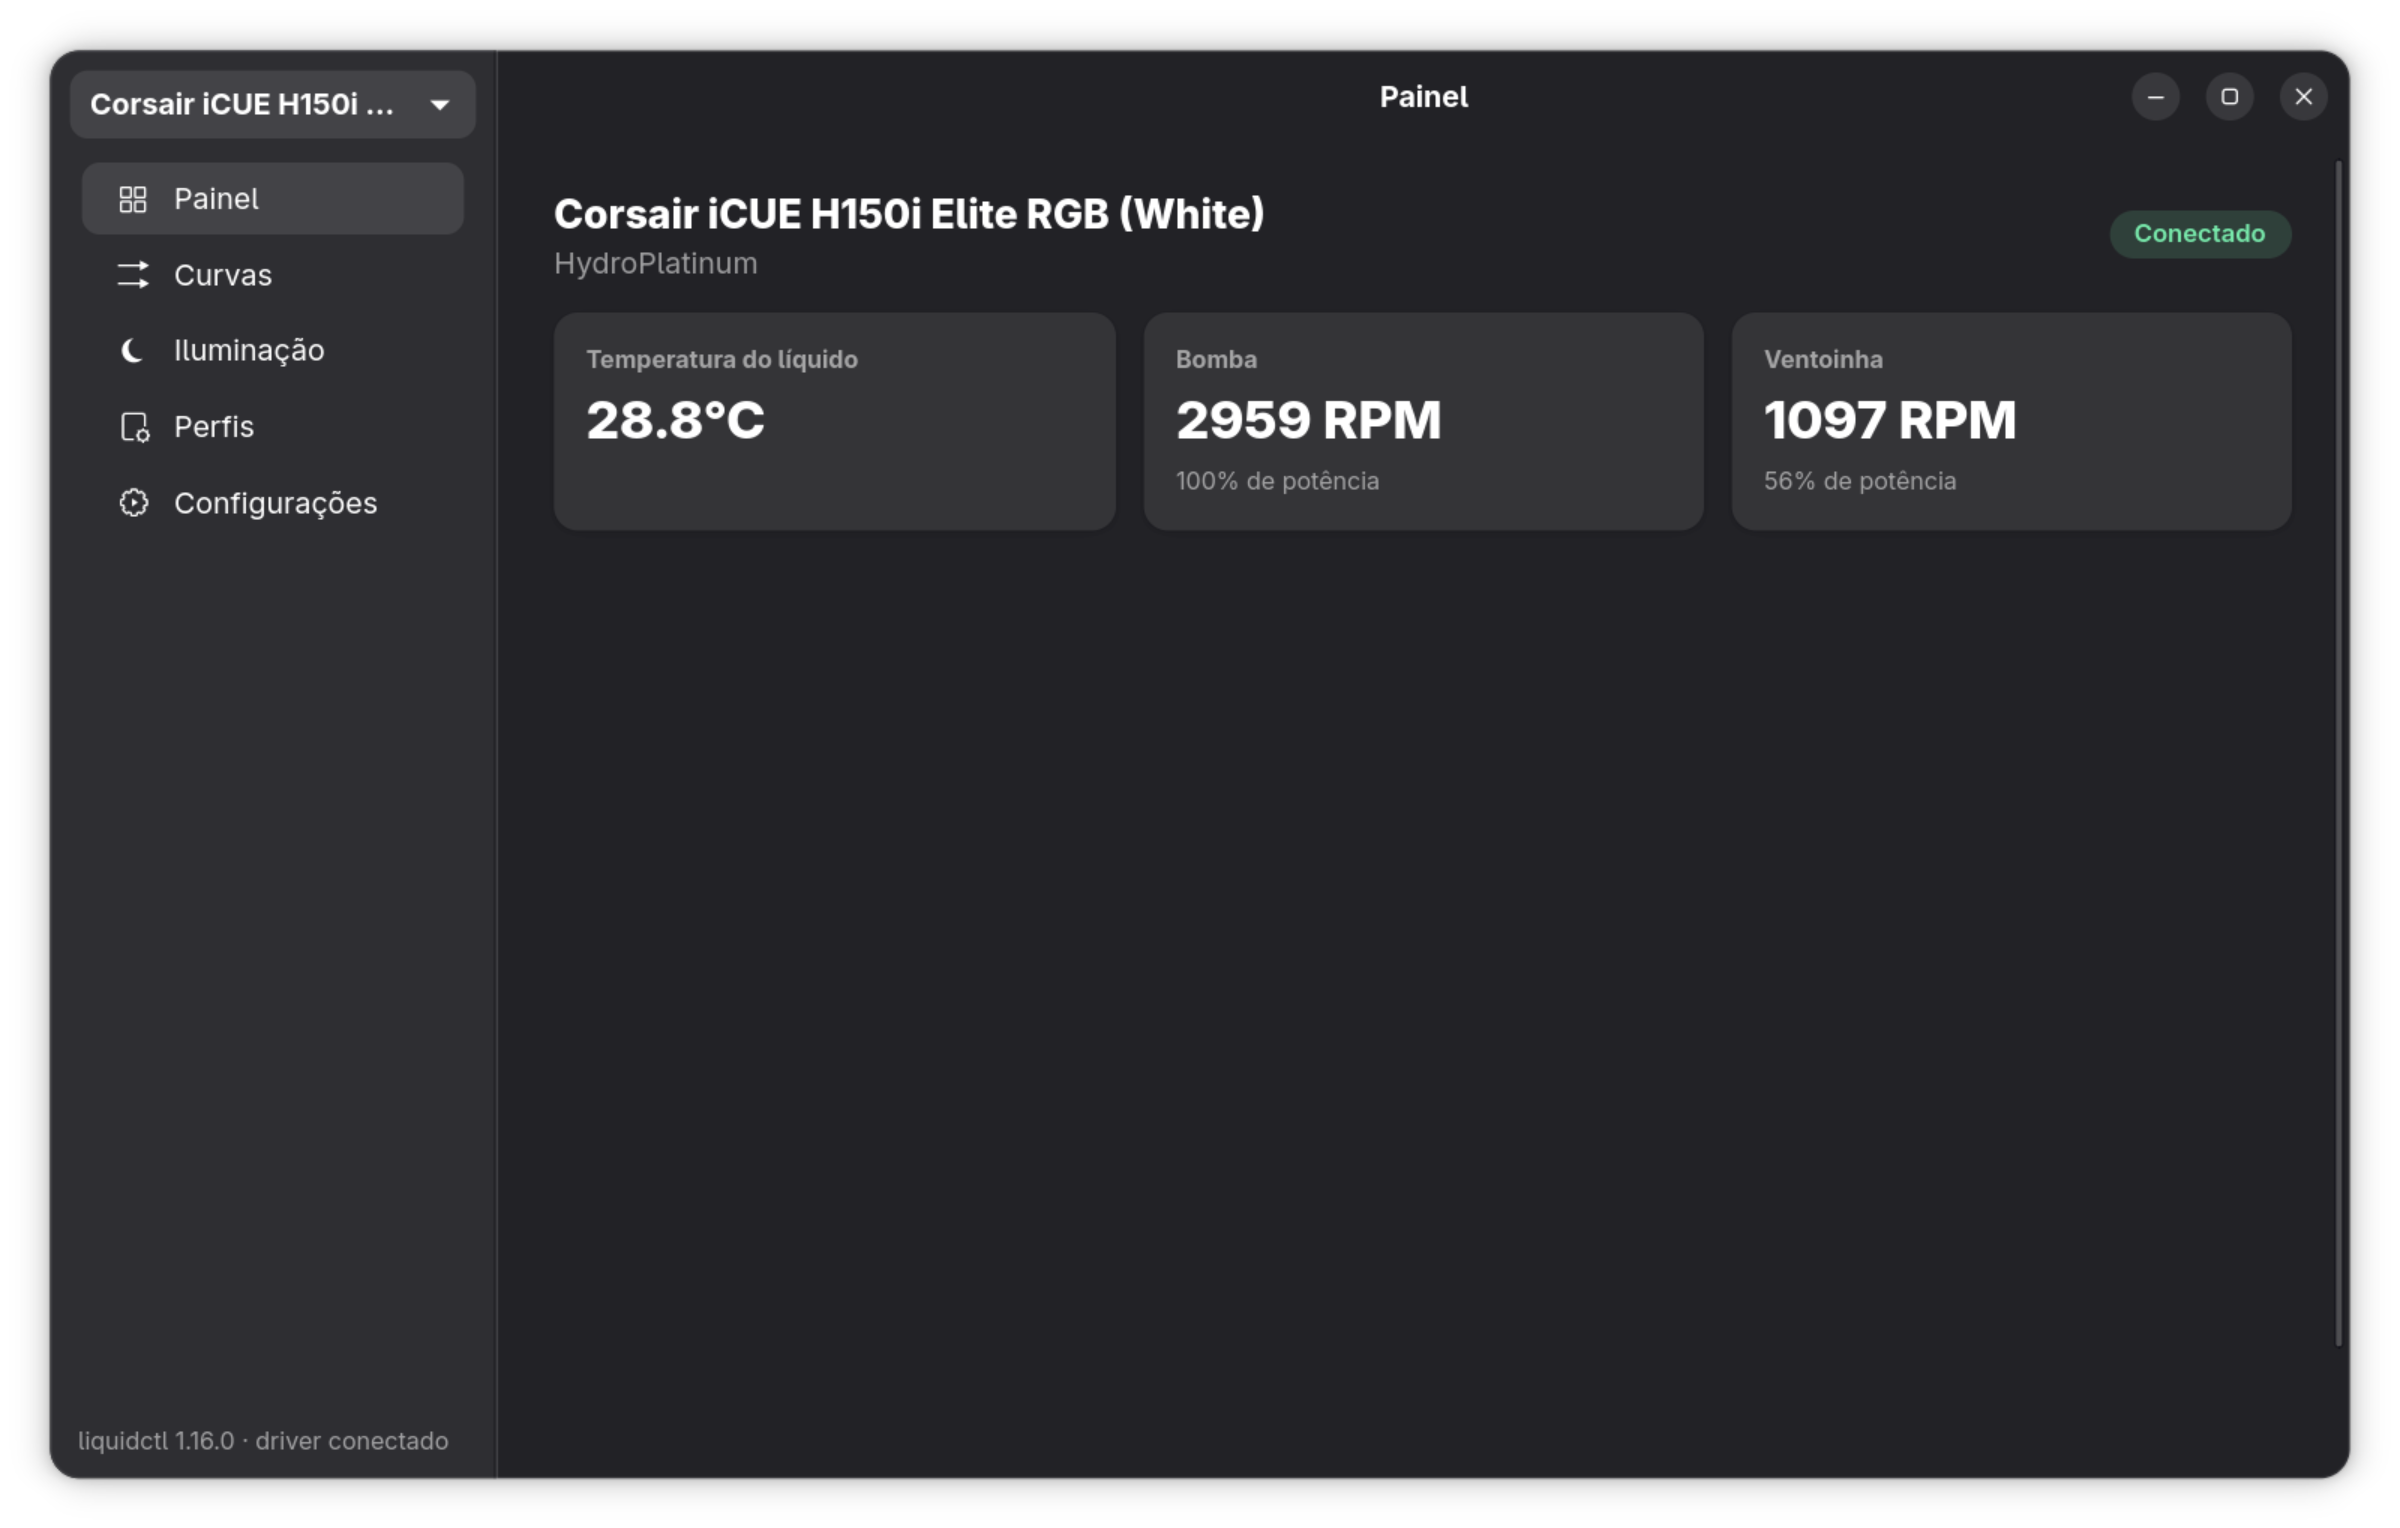
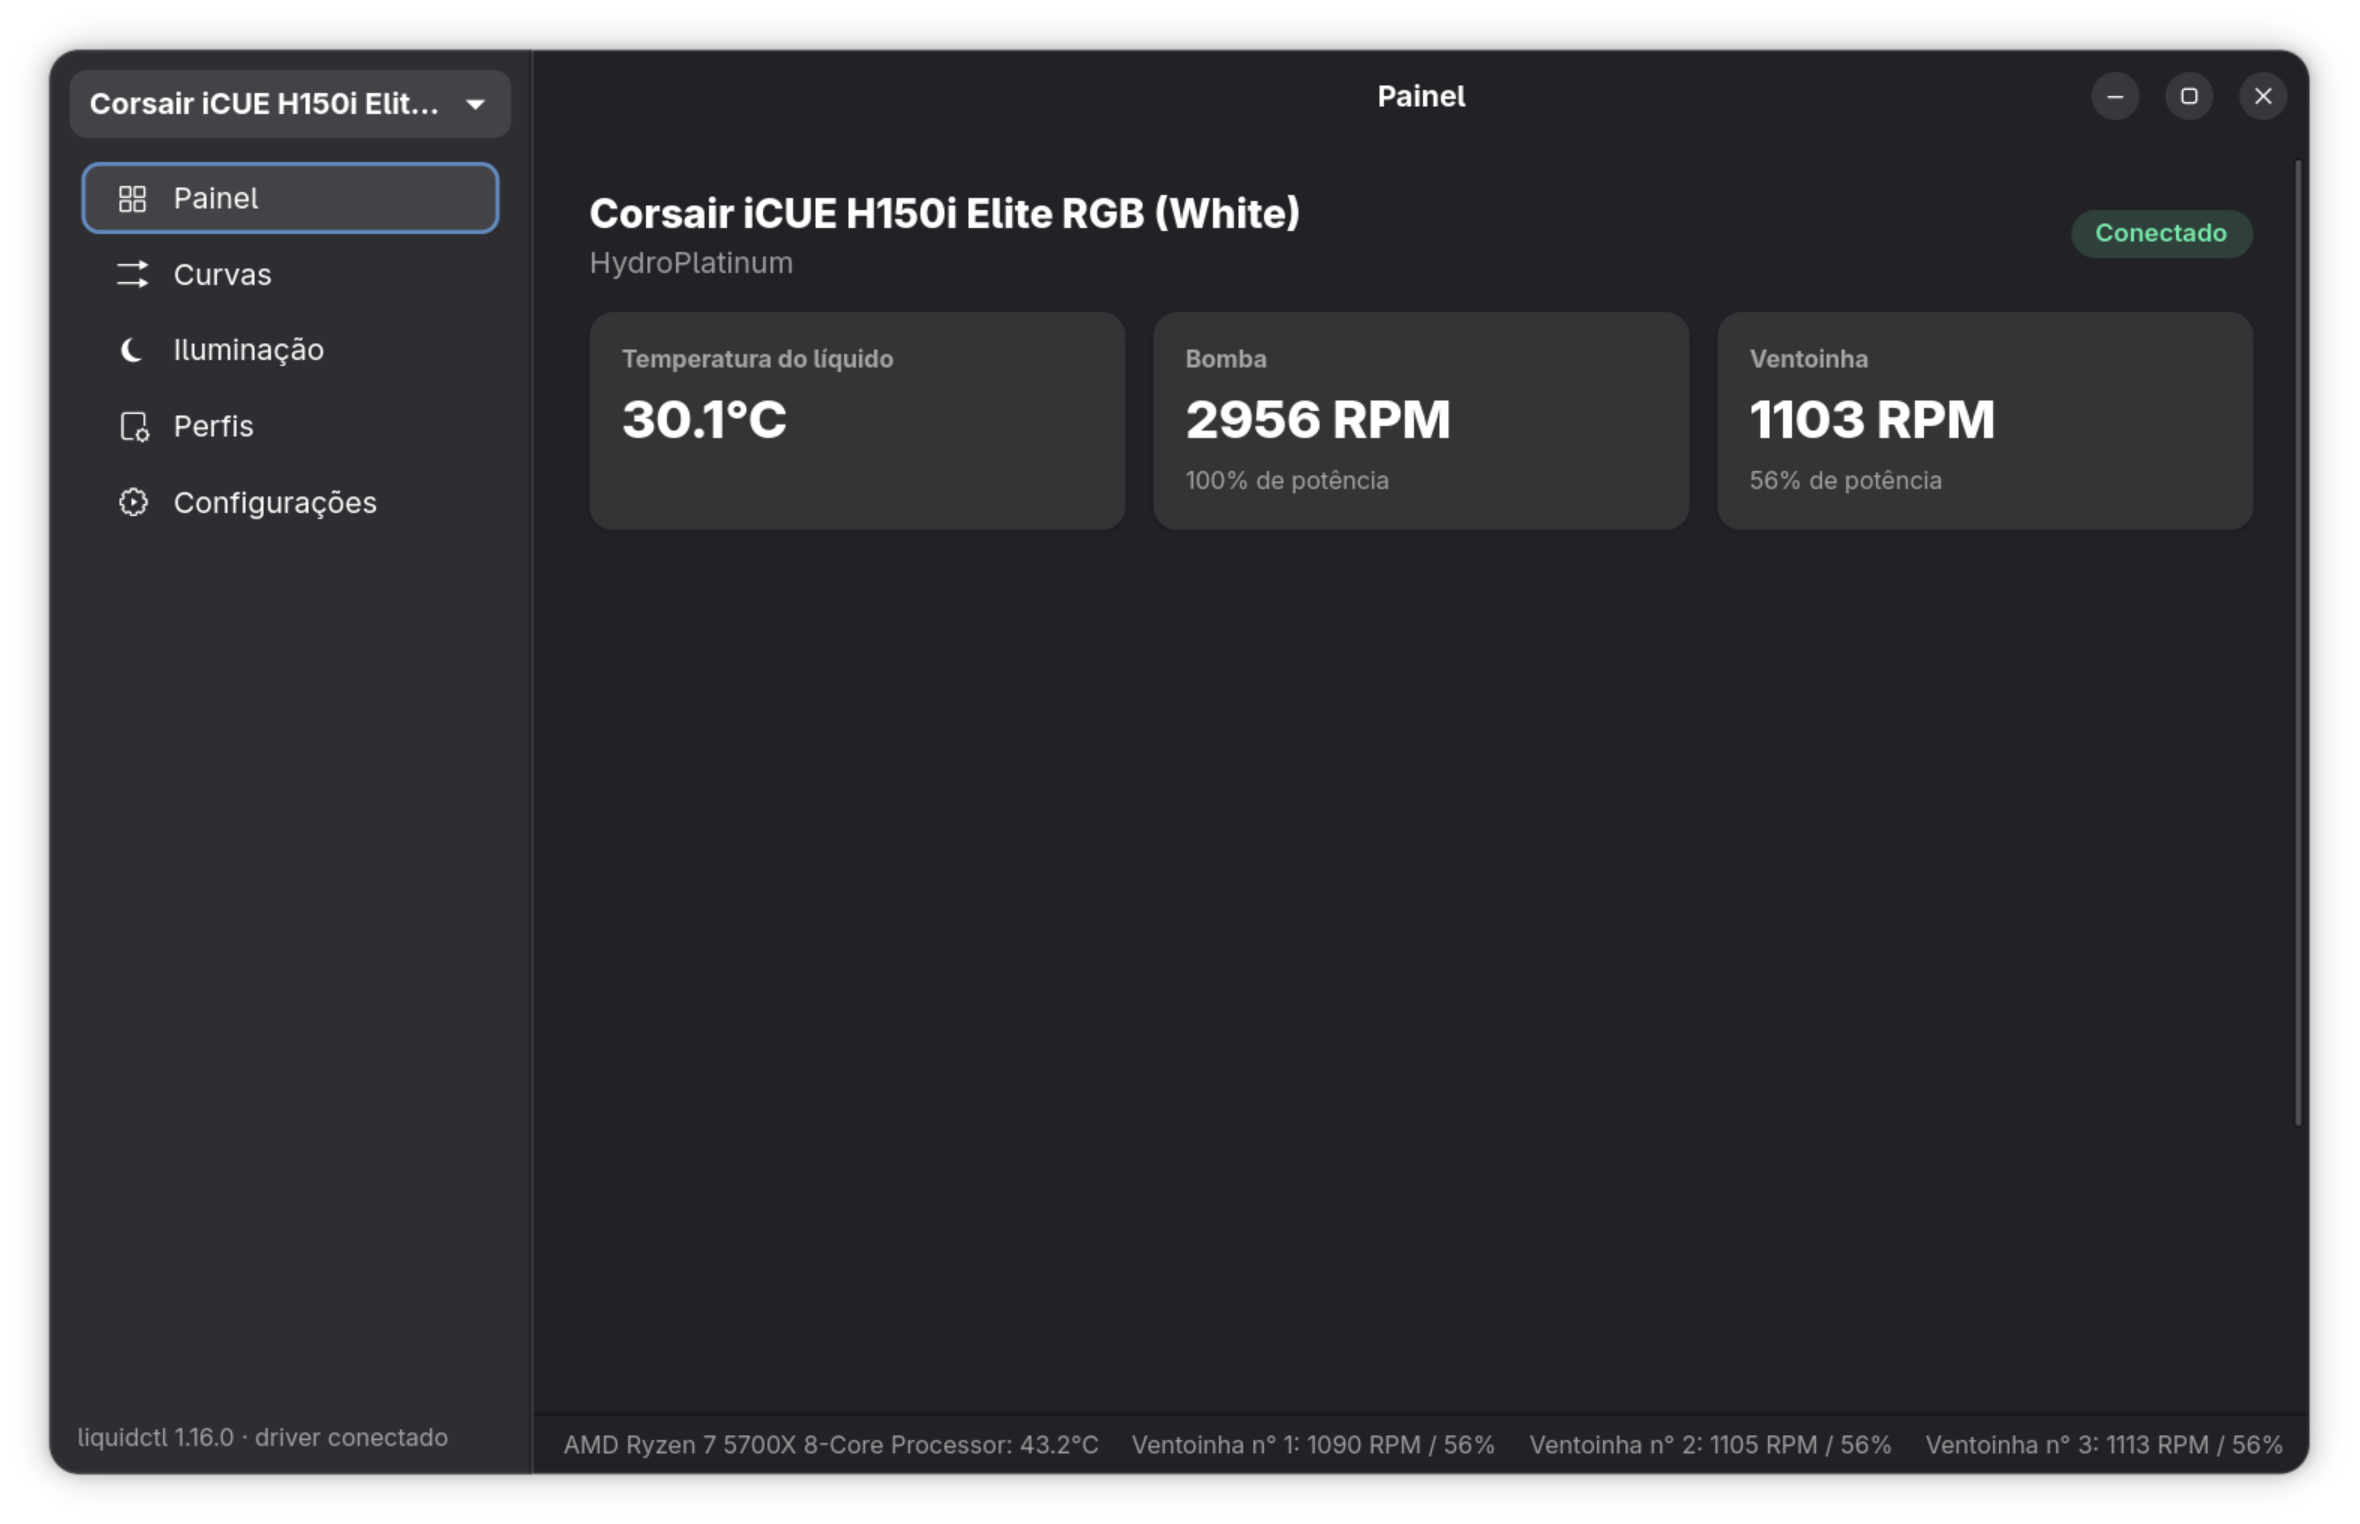
feat: CPU/fan dashboard monitor and faster fan validation
- Add a discreet bottom bar showing host CPU temperature and per-fan
  RPM/duty, pinned outside the scrollable content
- Fan duty validation now settles fast right after applying a curve,
  then falls back to the slower configured interval
- Fix sidebar collapsing to an unrecoverable sliver when dragged to
  its minimum width
- Update README and pt_BR translations

diff --git a/liquidctl_gui/ui/page_dashboard.py b/liquidctl_gui/ui/page_dashboard.py
@@ -1,15 +1,20 @@
 from __future__ import annotations
 
+import re
+
 import gi
 
 gi.require_version("Gtk", "4.0")
 gi.require_version("Adw", "1")
 
-from gi.repository import Adw, GLib, Gtk  # noqa: E402
+from gi.repository import Adw, GLib, Gtk, Pango  # noqa: E402
 
+from ..backend import system_sensors  # noqa: E402
 from ..i18n import install  # noqa: E402
 
 _ = install()
+
+_FAN_KEY_RE = re.compile(r"fan\s*(\d+)", re.IGNORECASE)
 
 
 def _card(title: str) -> tuple[Gtk.Box, Gtk.Label, Gtk.Label]:
@@ -62,6 +67,22 @@ class DashboardPage(Gtk.Box):
         self.append(self.empty_label)
         self.empty_label.set_visible(False)
 
+        # Deliberately NOT appended into this page: it lives in the window's
+        # Adw.ToolbarView bottom bar instead (see window.py), which stays pinned to
+        # the window edge outside the scrollable content - unlike a child of this
+        # page, it can never be pushed off-screen or require scrolling to reach.
+        self.system_box = Adw.WrapBox(child_spacing=16, line_spacing=2,
+                                       halign=Gtk.Align.END, margin_top=6, margin_bottom=6,
+                                       margin_start=12, margin_end=12)
+        self.cpu_label = Gtk.Label(halign=Gtk.Align.END, css_classes=["dim-label", "caption"],
+                                    ellipsize=Pango.EllipsizeMode.END, max_width_chars=40)
+        self.system_box.append(self.cpu_label)
+
+        self._cpu_name = system_sensors.get_cpu_name()
+        self._fan_detail_labels: list[Gtk.Label] = []
+        self._update_cpu()
+        GLib.timeout_add_seconds(2, self._update_cpu)
+
     def on_device_changed(self) -> None:
         if self._timeout_id is not None:
             GLib.source_remove(self._timeout_id)
@@ -106,18 +127,57 @@ class DashboardPage(Gtk.Box):
 
     def _on_status(self, status) -> None:
         unit = self.window.app.config.get("temp_unit", "C")
+        fans: dict[int, dict[str, float]] = {}
+
         for key, value, raw_unit in status:
             lower_key = key.lower()
+            match = _FAN_KEY_RE.search(lower_key)
             if "liquid temperature" in lower_key:
                 self.liquid_temp_value.set_label(self._format_temp(value, unit))
             elif lower_key.startswith("pump speed"):
                 self.pump_value.set_label(_("{rpm} RPM").format(rpm=int(value)))
             elif lower_key.startswith("pump duty"):
                 self.pump_sub.set_label(_("{duty}% power").format(duty=int(value)))
-            elif lower_key.startswith("fan speed") or (lower_key.startswith("fan") and "speed" in lower_key):
-                self.fan_value.set_label(_("{rpm} RPM").format(rpm=int(value)))
-            elif lower_key.startswith("fan duty") or (lower_key.startswith("fan") and "duty" in lower_key):
-                self.fan_sub.set_label(_("{duty}% power").format(duty=int(value)))
+            elif match and "speed" in lower_key:
+                fans.setdefault(int(match.group(1)), {})["rpm"] = value
+            elif match and "duty" in lower_key:
+                fans.setdefault(int(match.group(1)), {})["duty"] = value
+
+        if fans:
+            rpms = [f["rpm"] for f in fans.values() if "rpm" in f]
+            duties = [f["duty"] for f in fans.values() if "duty" in f]
+            if rpms:
+                self.fan_value.set_label(_("{rpm} RPM").format(rpm=round(sum(rpms) / len(rpms))))
+            if duties:
+                self.fan_sub.set_label(_("{duty}% power").format(duty=round(sum(duties) / len(duties))))
+
+        self._update_fan_details(fans)
+
+    def _update_fan_details(self, fans: dict[int, dict[str, float]]) -> None:
+        for label in self._fan_detail_labels:
+            self.system_box.remove(label)
+        self._fan_detail_labels.clear()
+
+        for index in sorted(fans):
+            values = fans[index]
+            if "rpm" not in values or "duty" not in values:
+                continue
+            text = _("Fan {n}: {rpm} RPM / {duty}%").format(
+                n=index, rpm=round(values["rpm"]), duty=round(values["duty"])
+            )
+            label = Gtk.Label(label=text, halign=Gtk.Align.END, css_classes=["dim-label", "caption"])
+            self.system_box.append(label)
+            self._fan_detail_labels.append(label)
+
+    def _update_cpu(self) -> bool:
+        temp = system_sensors.get_cpu_temp()
+        if temp is None:
+            self.cpu_label.set_visible(False)
+        else:
+            unit = self.window.app.config.get("temp_unit", "C")
+            self.cpu_label.set_visible(True)
+            self.cpu_label.set_label(f"{self._cpu_name}: {self._format_temp(temp, unit)}")
+        return GLib.SOURCE_CONTINUE
 
     @staticmethod
     def _format_temp(celsius: float, unit: str) -> str:

diff --git a/liquidctl_gui/backend/system_sensors.py b/liquidctl_gui/backend/system_sensors.py
@@ -1,0 +1,64 @@
+"""Reads the host CPU's name and temperature straight from sysfs/procfs.
+
+liquidctl only knows about the devices it controls, not the CPU itself, so this
+is a separate, tiny reader - plain file I/O, no extra dependency (e.g. psutil)
+for something this simple. Cheap enough to call directly from the GTK main
+thread on every dashboard tick.
+"""
+
+from __future__ import annotations
+
+import os
+import re
+
+_HWMON_ROOT = "/sys/class/hwmon"
+_KNOWN_CPU_CHIPS = ("k10temp", "zenpower", "coretemp")
+_TEMP_INPUT_RE = re.compile(r"temp\d+_input")
+
+
+def get_cpu_name() -> str:
+    try:
+        with open("/proc/cpuinfo", encoding="utf-8") as fh:
+            for line in fh:
+                if line.startswith("model name"):
+                    return " ".join(line.split(":", 1)[1].split())
+    except OSError:
+        pass
+    return "CPU"
+
+
+def get_cpu_temp() -> float | None:
+    try:
+        chips = os.listdir(_HWMON_ROOT)
+    except OSError:
+        return None
+
+    for chip in chips:
+        chip_dir = os.path.join(_HWMON_ROOT, chip)
+        try:
+            with open(os.path.join(chip_dir, "name"), encoding="utf-8") as fh:
+                name = fh.read().strip()
+        except OSError:
+            continue
+        if name not in _KNOWN_CPU_CHIPS:
+            continue
+        temp = _read_first_temp(chip_dir)
+        if temp is not None:
+            return temp
+    return None
+
+
+def _read_first_temp(chip_dir: str) -> float | None:
+    try:
+        entries = sorted(os.listdir(chip_dir))
+    except OSError:
+        return None
+    for entry in entries:
+        if not _TEMP_INPUT_RE.fullmatch(entry):
+            continue
+        try:
+            with open(os.path.join(chip_dir, entry), encoding="utf-8") as fh:
+                return int(fh.read().strip()) / 1000
+        except (OSError, ValueError):
+            continue
+    return None

diff --git a/liquidctl_gui/backend/curve_engine.py b/liquidctl_gui/backend/curve_engine.py
@@ -30,6 +30,13 @@ DEFAULT_POLL_SECONDS = 2
 _FAN_DUTY_TOLERANCE = 5
 DEFAULT_VALIDATION_SECONDS = 60
 
+# Right after applying a curve is exactly when the race is most likely (see above),
+# so re-check quickly at first - then, once the fans agree (or we've retried enough
+# times without success), settle into the slower, user-configurable interval instead
+# of hammering the device forever at startup speed.
+_STARTUP_VALIDATION_SECONDS = 2
+_STARTUP_VALIDATION_MAX_ATTEMPTS = 10
+
 
 def interpolate_duty(curve: list[tuple[float, float]], temp: float) -> int:
     points = sorted(curve, key=lambda p: p[0])
@@ -57,6 +64,7 @@ class _ChannelJob:
     software_fallback: bool = False
     timeout_id: int | None = None
     validation_timeout_id: int | None = None
+    startup_checks_left: int = 0
 
 
 class CurveEngine:
@@ -83,7 +91,9 @@ class CurveEngine:
     def set_validation_interval(self, seconds: int) -> None:
         self._validation_seconds = max(5, seconds)
         for job in list(self._jobs.values()):
-            if job.validation_timeout_id is not None:
+            # Don't interrupt an in-progress startup fast-check phase - it'll pick up
+            # the new steady interval once it settles.
+            if job.validation_timeout_id is not None and job.startup_checks_left == 0:
                 GLib.source_remove(job.validation_timeout_id)
                 job.validation_timeout_id = GLib.timeout_add_seconds(
                     self._validation_seconds, self._validate_fan_duty, job
@@ -108,8 +118,9 @@ class CurveEngine:
                 job.timeout_id = None
                 job.software_fallback = False
             if channel == "fan" and job.validation_timeout_id is None:
+                job.startup_checks_left = _STARTUP_VALIDATION_MAX_ATTEMPTS
                 job.validation_timeout_id = GLib.timeout_add_seconds(
-                    self._validation_seconds, self._validate_fan_duty, job
+                    _STARTUP_VALIDATION_SECONDS, self._validate_fan_duty, job
                 )
 
         self._controller.set_speed_profile(device_key, channel, sorted(curve), on_done=on_done, on_error=on_error)
@@ -121,11 +132,26 @@ class CurveEngine:
 
         def on_status(status) -> None:
             duties = [value for key, value, _unit in status if "fan" in key.lower() and "duty" in key.lower()]
-            if len(duties) >= 2 and max(duties) - min(duties) > _FAN_DUTY_TOLERANCE:
+            mismatched = len(duties) >= 2 and max(duties) - min(duties) > _FAN_DUTY_TOLERANCE
+
+            if mismatched:
                 self._controller.set_speed_profile(job.device_key, job.channel, sorted(job.curve))
 
+            if job.startup_checks_left > 0:
+                if mismatched:
+                    job.startup_checks_left -= 1
+                    next_seconds = _STARTUP_VALIDATION_SECONDS
+                else:
+                    # Fans agree - startup settled, switch to the slow steady cadence.
+                    job.startup_checks_left = 0
+                    next_seconds = self._validation_seconds
+            else:
+                next_seconds = self._validation_seconds
+
+            job.validation_timeout_id = GLib.timeout_add_seconds(next_seconds, self._validate_fan_duty, job)
+
         self._controller.get_status(job.device_key, on_status)
-        return GLib.SOURCE_CONTINUE
+        return GLib.SOURCE_REMOVE
 
     def stop_channel(self, device_key: str, channel: str) -> None:
         job = self._jobs.pop((device_key, channel), None)

diff --git a/liquidctl_gui/ui/window.py b/liquidctl_gui/ui/window.py
@@ -77,19 +77,27 @@ class LiquidctlGuiWindow(Adw.ApplicationWindow):
         content_toolbar = Adw.ToolbarView()
         content_toolbar.add_top_bar(header)
         content_toolbar.set_content(scroller)
+        content_toolbar.set_bottom_bar_style(Adw.ToolbarStyle.FLAT)
+        content_toolbar.add_bottom_bar(self.dashboard_page.system_box)
 
         self.sidebar = Sidebar(self)
-        self.sidebar.set_size_request(1, -1)
+        # A minimum this low let the paned handle be dragged until the sidebar
+        # became a sliver of a pixel wide - invisible and impossible to grab back.
+        self.sidebar.set_size_request(180, -1)
         content_toolbar.set_size_request(320, -1)
 
         self.split_view = Gtk.Paned(orientation=Gtk.Orientation.HORIZONTAL, wide_handle=False)
         self.split_view.set_start_child(self.sidebar)
         self.split_view.set_end_child(content_toolbar)
         self.split_view.set_resize_start_child(False)
-        self.split_view.set_shrink_start_child(True)
+        # False enforces the sidebar's size_request as a hard floor - with True, the
+        # handle could still be dragged past it down to (and hiding) zero width.
+        self.split_view.set_shrink_start_child(False)
         self.split_view.set_resize_end_child(True)
         self.split_view.set_shrink_end_child(False)
-        self.split_view.set_position(application.config.get("sidebar_width", 280))
+        # max() guards against a sidebar_width saved from before the fix above,
+        # which could still be as small as 1px.
+        self.split_view.set_position(max(180, application.config.get("sidebar_width", 280)))
         self.split_view.connect("notify::position", self._schedule_geometry_save)
         self.set_content(self.split_view)
 
@@ -100,6 +108,7 @@ class LiquidctlGuiWindow(Adw.ApplicationWindow):
         self.view_stack.set_visible_child_name(page_name)
         self.title_label.set_label(PAGE_TITLES.get(page_name, ""))
         self.sidebar.set_active_nav(page_name)
+        self.dashboard_page.system_box.set_visible(page_name == "dashboard")
 
     def refresh_devices(self) -> None:
         self.app.controller.refresh_devices(self._on_devices_loaded)

diff --git a/README.md b/README.md
@@ -34,7 +34,10 @@ proper GNOME app instead of the command line.
 
 ## Features
 
-- **Dashboard** — live liquid temperature, pump and fan RPM/duty for the selected device.
+- **Dashboard** — live liquid temperature, pump and fan RPM/duty for the selected device, plus a
+  discreet bottom bar with host CPU temperature and a per-fan RPM/duty breakdown (both fully
+  dynamic: shows your actual CPU model and however many fans your device reports, wraps to a
+  second line instead of overflowing on a narrow window).
 - **Curves** — a draggable temperature × duty graph per channel (add/remove points, presets, or
   freehand). Falls back automatically to host-side polling for devices whose driver doesn't
   support hardware speed profiles.
@@ -52,9 +55,10 @@ proper GNOME app instead of the command line.
   no window popping up on login.
 - **Self-healing fan duty validation** — some multi-fan coolers can occasionally desync a fan's
   duty from the rest on a firmware-level hiccup (confirmed on the Hydro Platinum's 3-fan variant).
-  The app periodically re-checks that every fan actually matches the curve and silently resends
-  it if one has drifted. The check interval is configurable in Settings — higher values use less
-  CPU/USB traffic, lower values catch a glitch faster.
+  Right after applying a curve, the app double-checks quickly a few times until every fan actually
+  matches it; once settled, it switches to a slower steady check so it isn't hammering the device
+  forever. That steady interval is configurable in Settings — higher values use less CPU/USB
+  traffic, lower values catch a glitch faster.
 - **Locale-aware** — Portuguese (`pt_BR`) if that's your system locale, English everywhere else.
 - Remembers window size, sidebar width, theme and default device between launches.
 